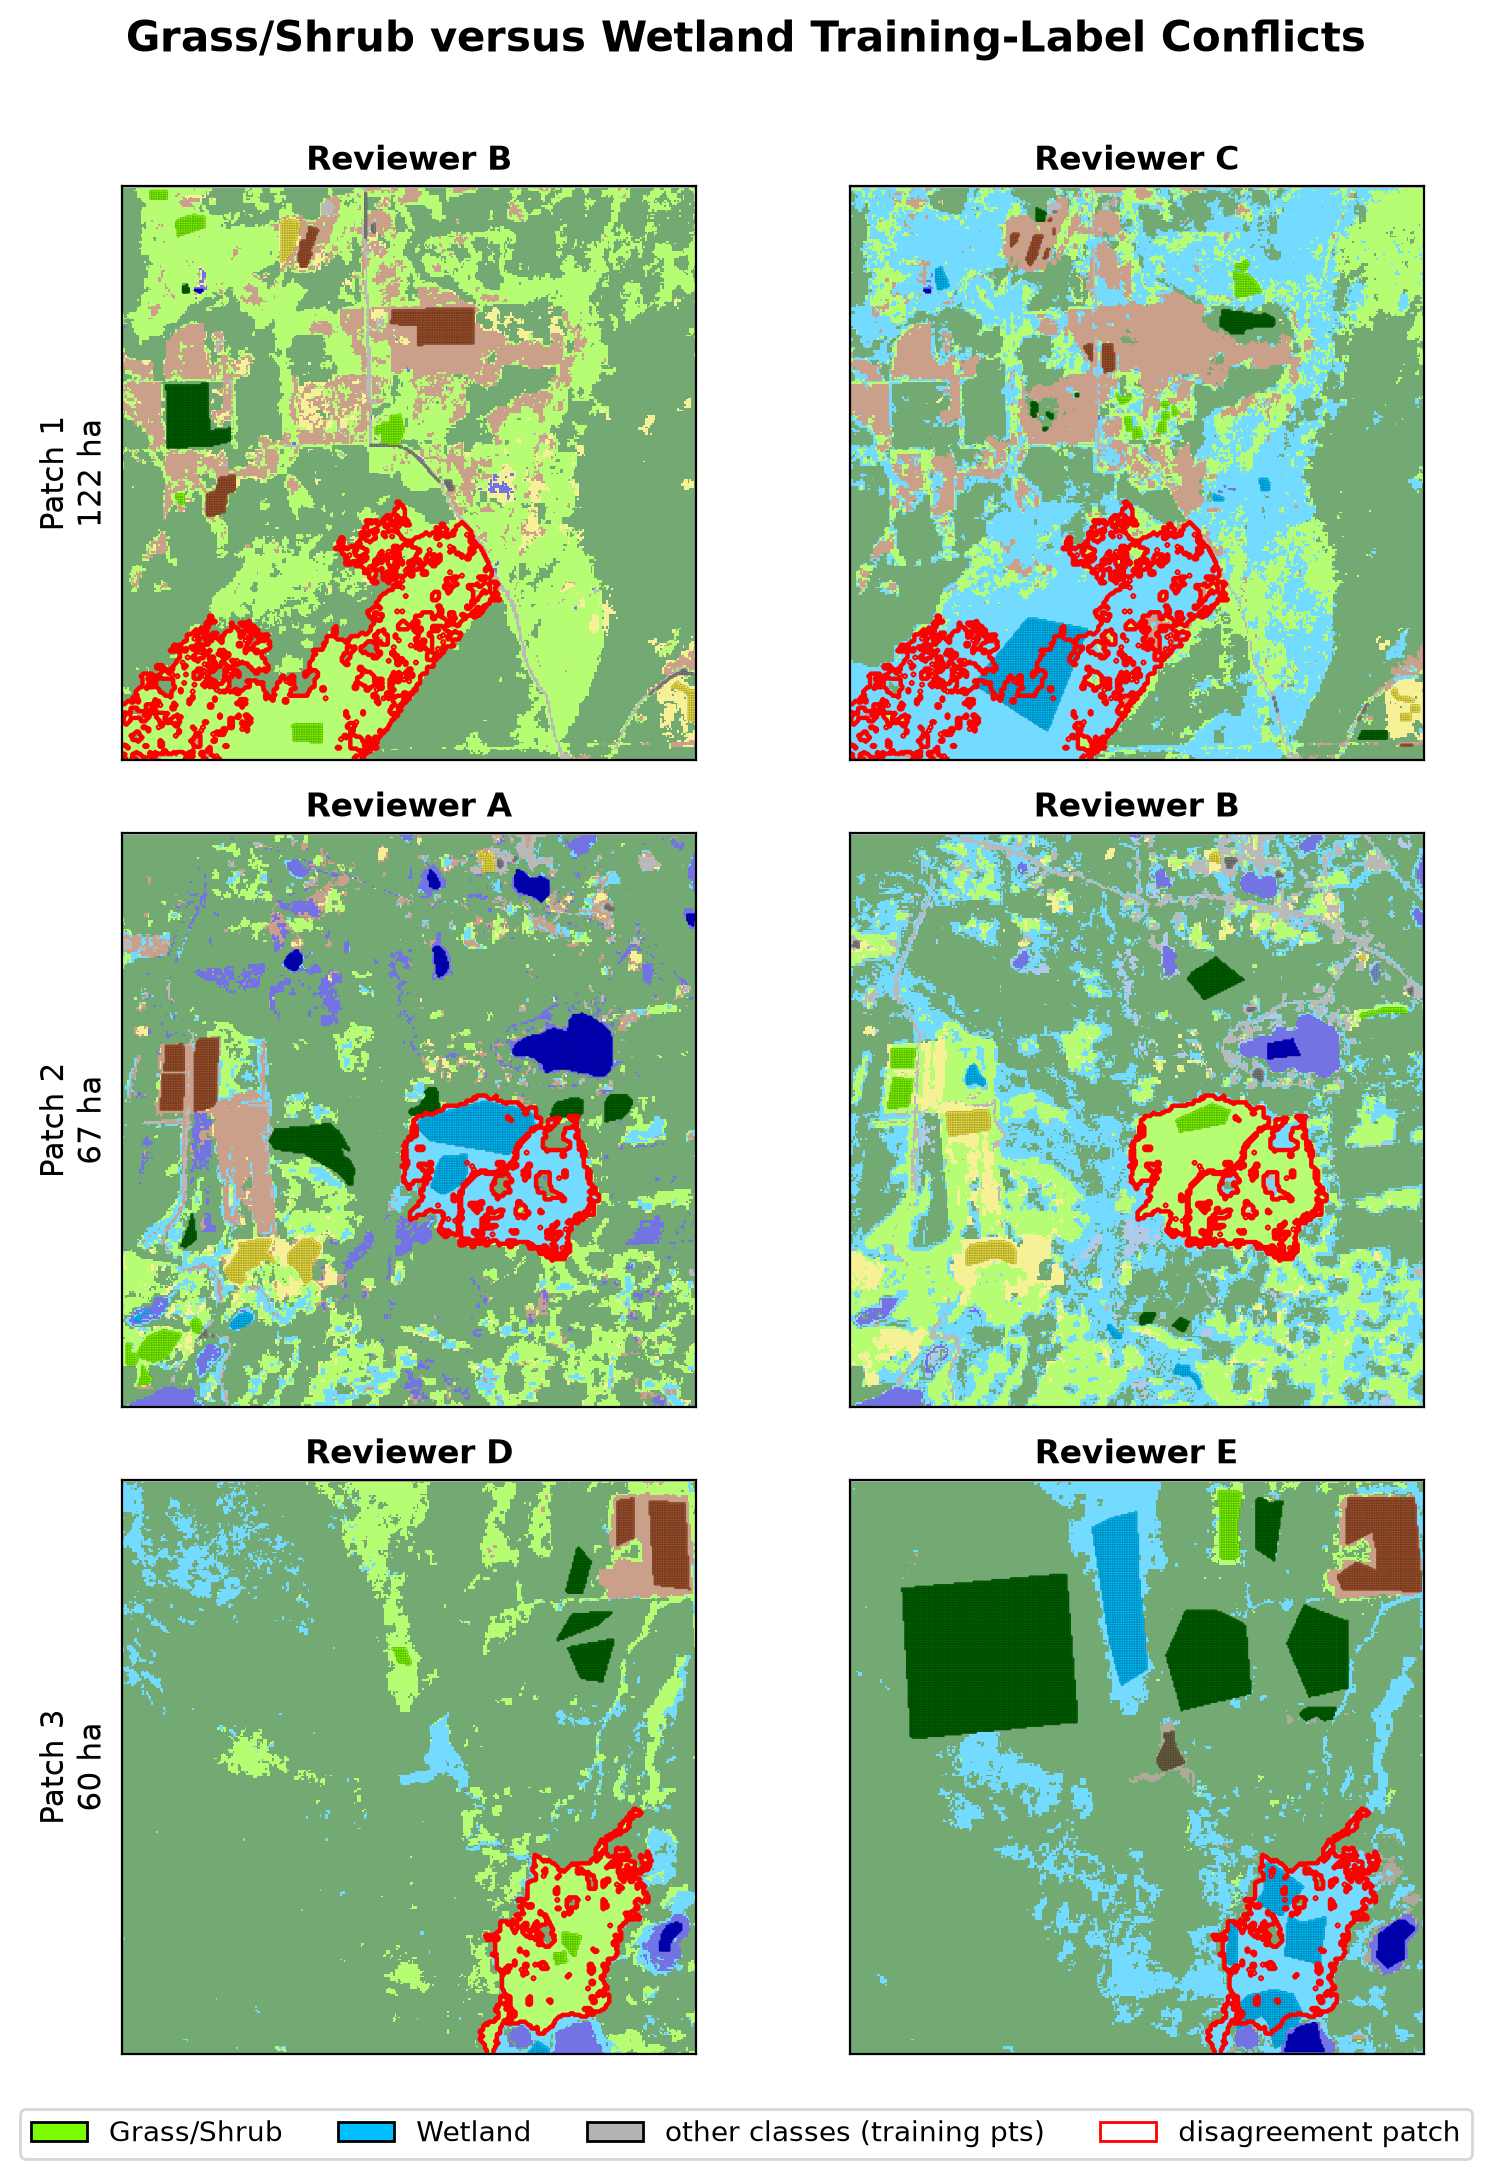
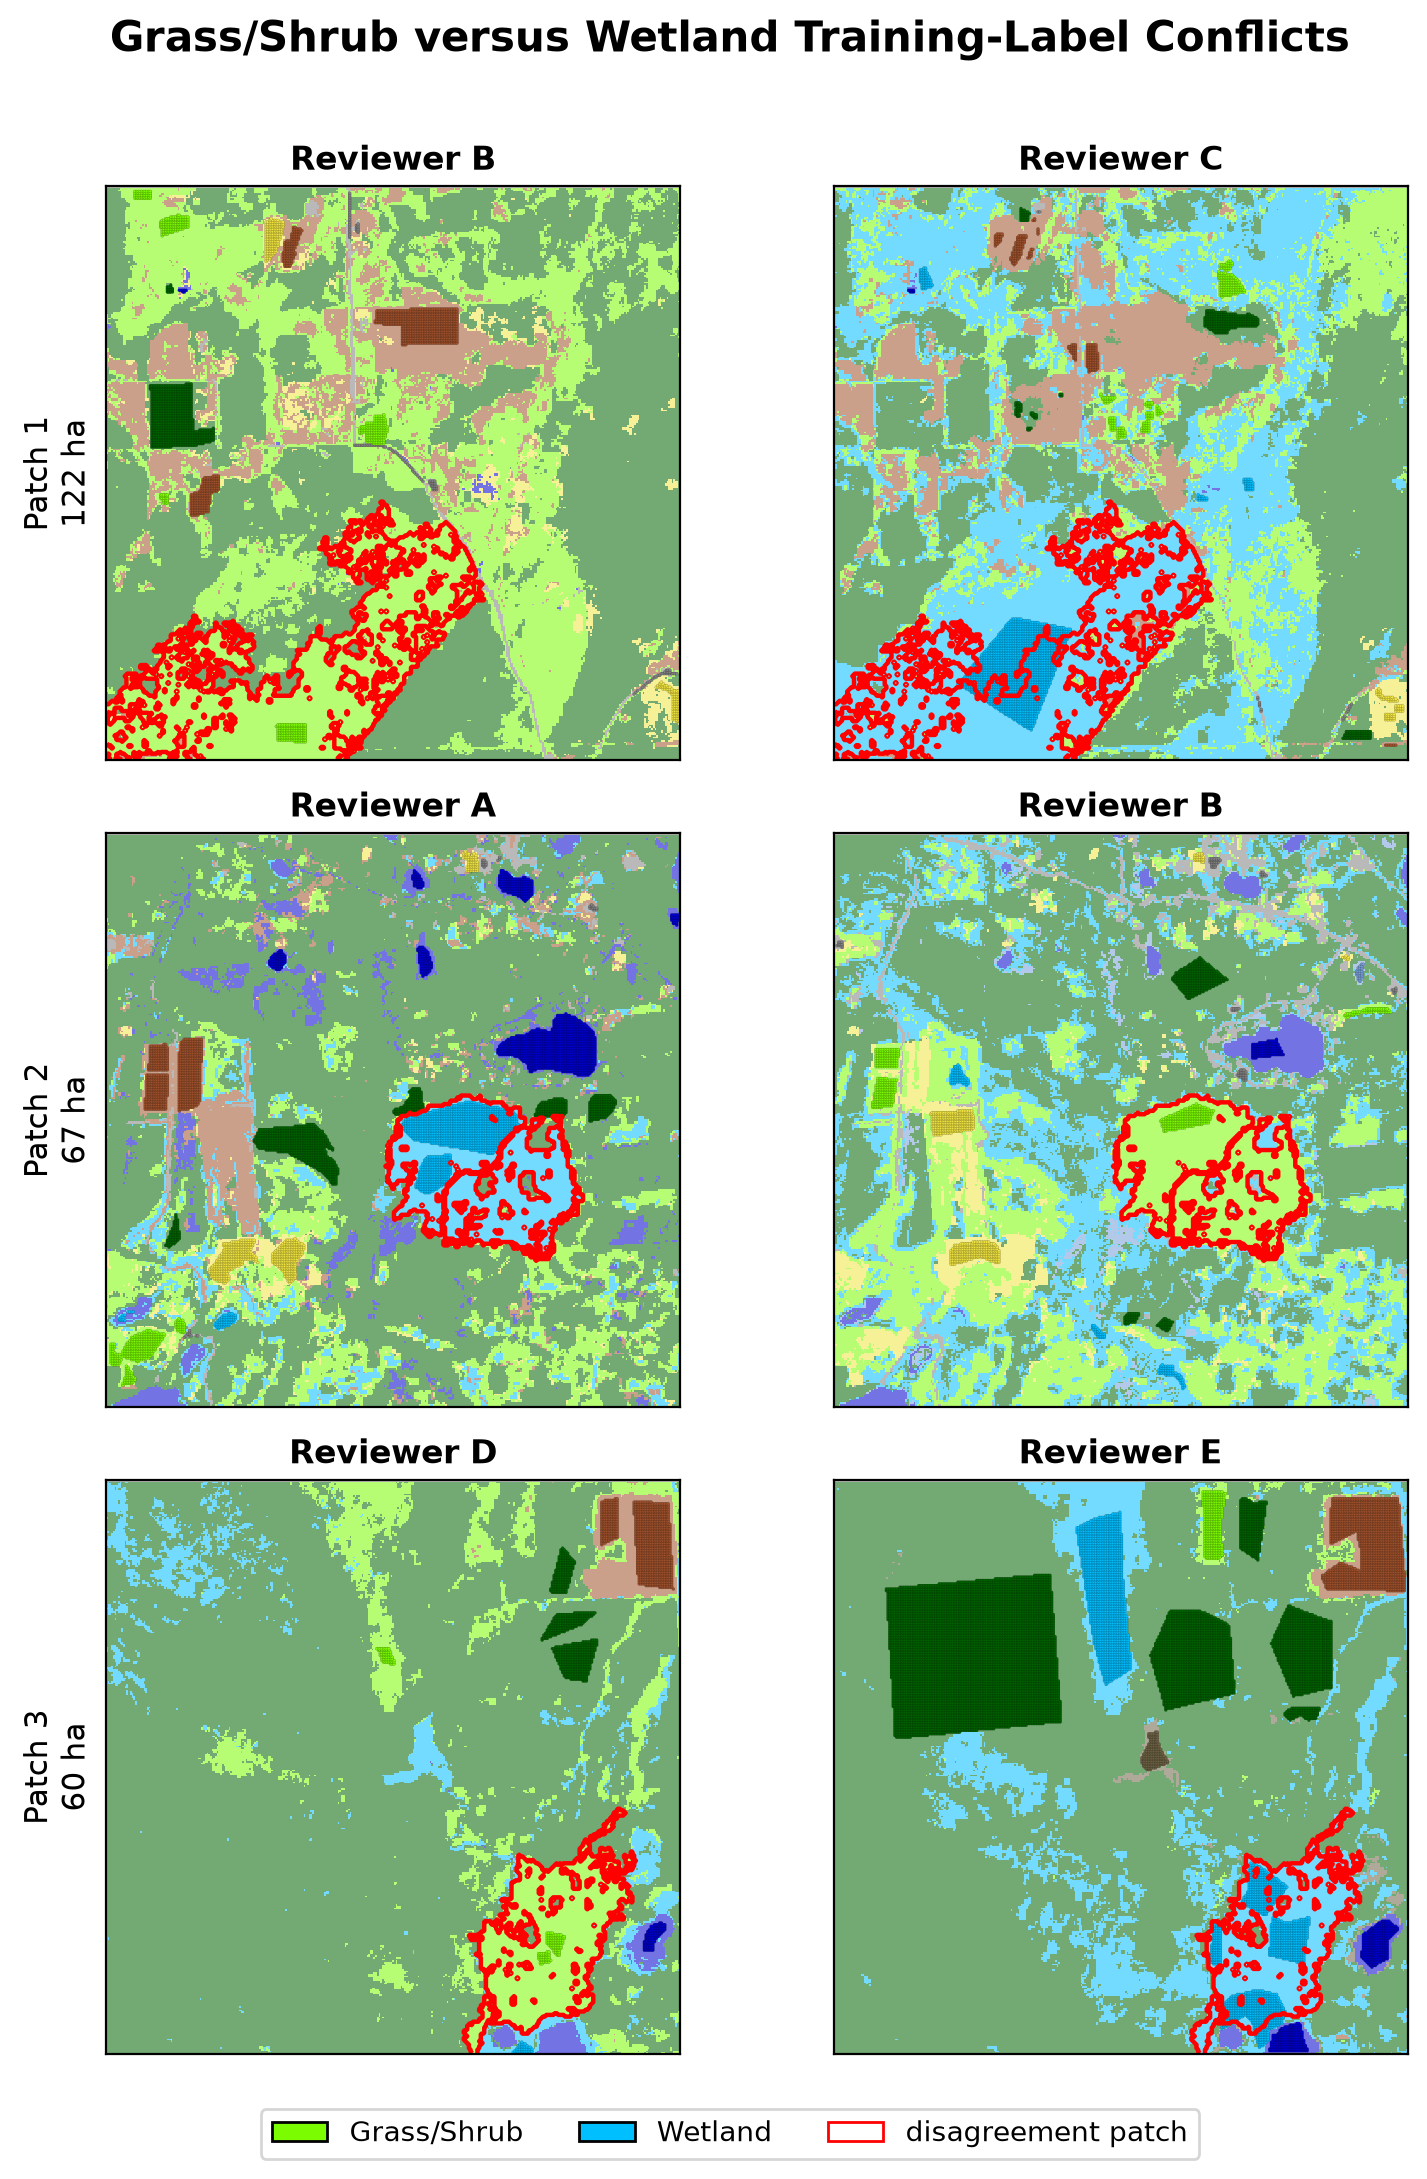
Figure 3.5: drop the confusing "other classes (training pts)" legend entry
The maps show only Grass/Shrub, Wetland, and the disagreement patch outline, so the
gray "other classes (training pts)" legend entry was misleading. Remove it; the
legend now has three entries.

diff --git a/scripts/training_polygon_overlay.py b/scripts/training_polygon_overlay.py
@@ -178,9 +178,8 @@ def make_render(render, letter, path):
             ax.set_title(f"Reviewer {letter[rev]}", fontsize=12, fontweight="bold")   # anonymized
         axes[i, 0].set_ylabel(f"Patch {rank}\n{r.area_ha:.0f} ha", fontsize=11)
     handles = [Patch(facecolor=colors[c], edgecolor="k", label=names[c]) for c in (GS, WET)]
-    handles += [Patch(facecolor="0.7", edgecolor="k", label="other classes (training pts)"),
-                Patch(edgecolor="red", facecolor="none", label="disagreement patch")]
-    fig.legend(handles=handles, loc="lower center", ncol=4, fontsize=10, bbox_to_anchor=(0.5, 0.01))
+    handles += [Patch(edgecolor="red", facecolor="none", label="disagreement patch")]
+    fig.legend(handles=handles, loc="lower center", ncol=3, fontsize=10, bbox_to_anchor=(0.5, 0.01))
     fig.suptitle("Grass/Shrub versus Wetland Training-Label Conflicts", fontsize=15, fontweight="bold")
     fig.tight_layout(rect=[0, 0.05, 1, 0.97])
     fig.savefig(path, dpi=200, bbox_inches="tight")
